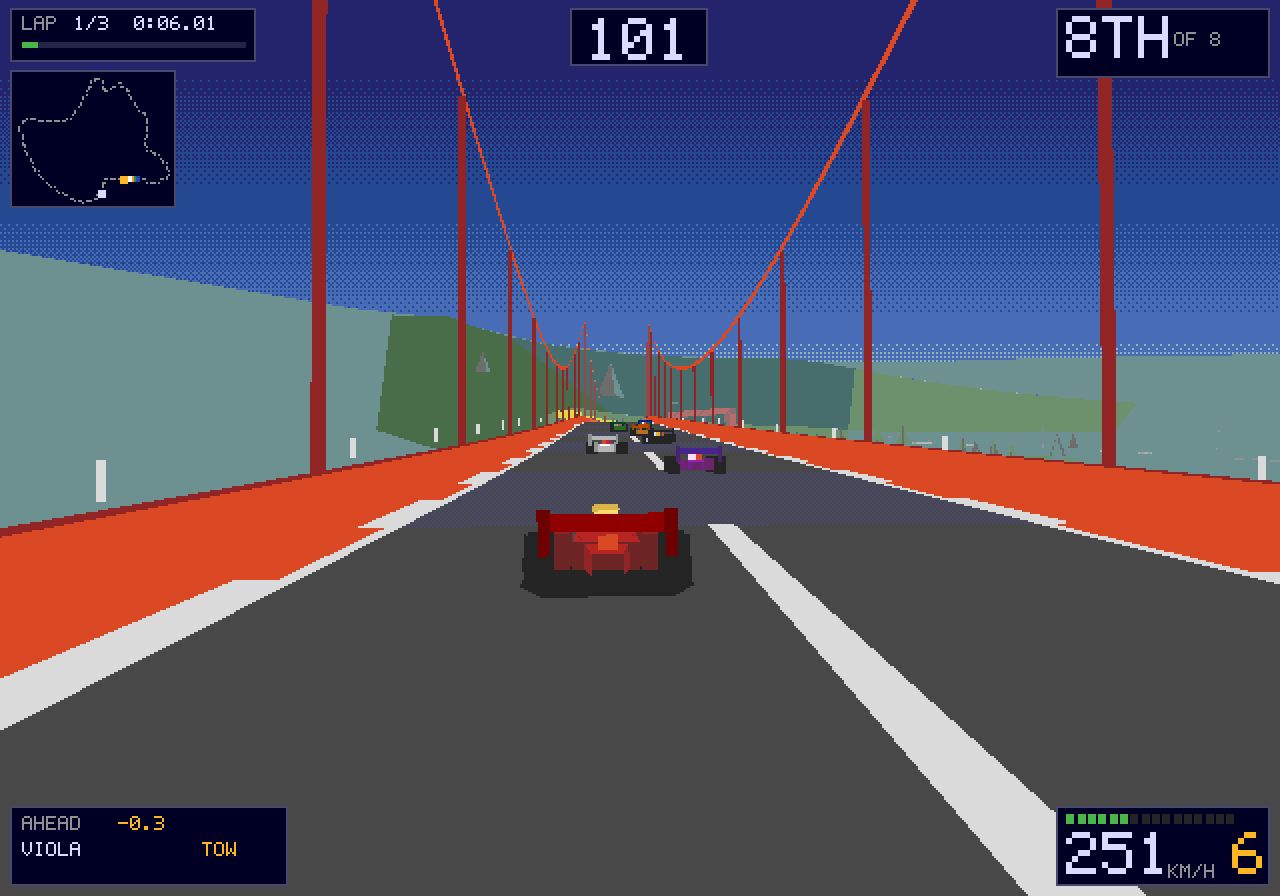
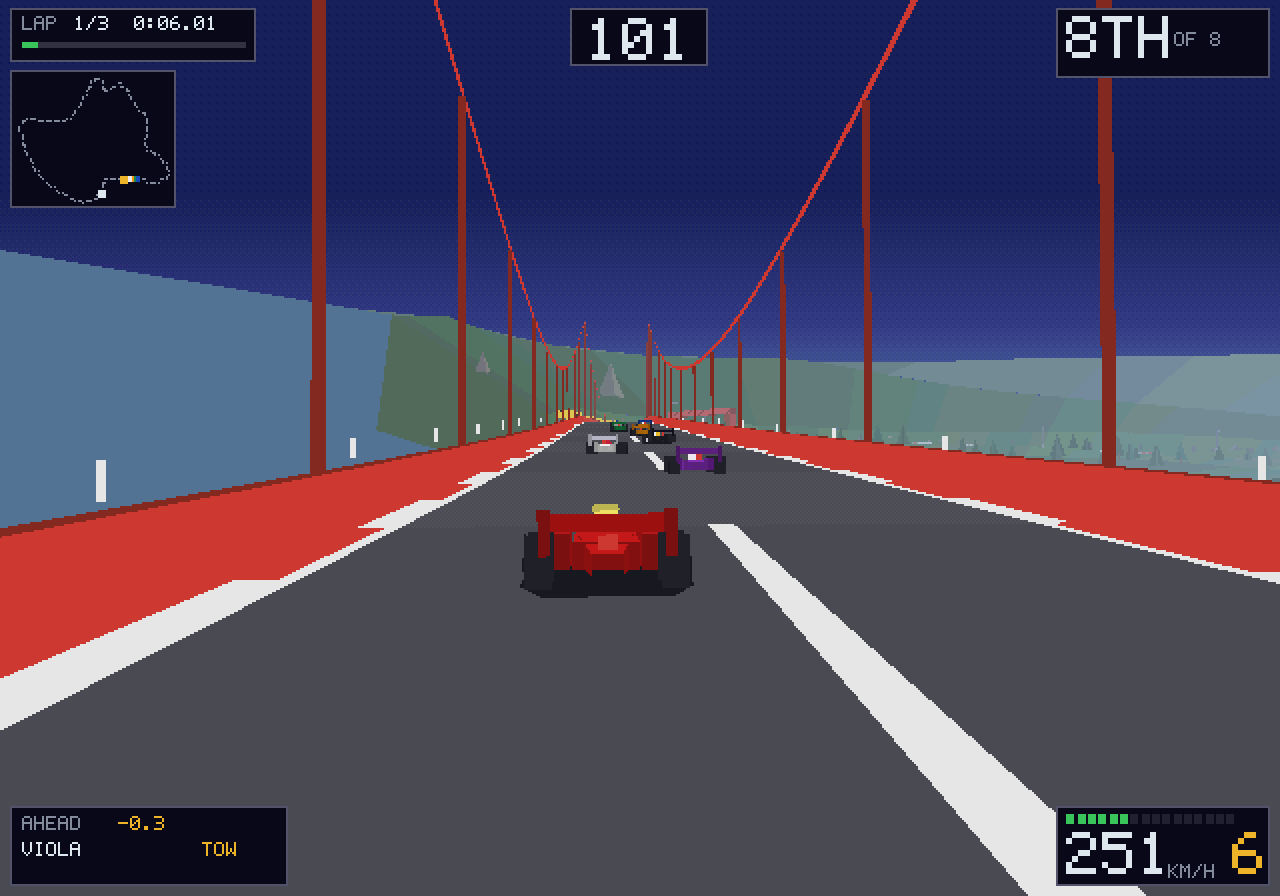
A sky that is a gradient, and a car that has stopped shivering
Three things off one screenshot.

The corner arrow in the panel was ragged, and it was the resolution change
that did it: the arrow was eight rows of one pixel each, and scaling a
position and a height separately rounds each on its own, so rows that
touched at four hundred and eighty came out a pixel apart or a pixel on top
of each other. Shapes built out of rows are given their edges now rather
than a corner and a size, so the next row starts exactly where the last one
stopped at any scale. And while it was open the arrow became the same
chevrons the boards beside the track use, graded the same way, so the panel
and the verge never say different things about the same corner.

The car shivered, and it was reading survey noise as road. Three separate
places, all the same mistake - a node is six metres and six metres of a
surveyed line is noise, so anything that responds to a corner must not be
built from one node of it.

  - Camber came straight off the node's own curvature, which on Suzuka
    moves by a hundredth of a radian from one node to the next. That swung
    the road, and the car standing on it, by a degree a node: nine wobbles
    a second at two hundred. Read over sixty-six metres now.
  - The car's roll was taken from the near node alone while the road under
    it was interpolated, so it held still for six metres and then stepped.
  - And the body lean, which was the loud one. At two hundred and sixty it
[…]

Changed region(s): [[0.0, 0.0938, 1.0, 0.5938], [0.7812, 0.4375, 0.9062, 0.5]]

diff --git a/src/render/raster.js b/src/render/raster.js
@@ -22,15 +22,50 @@
 import { FOCAL, NEAR } from '../constants.js';
 
 /**
- * Snaps a colour to the 512 a Mega Drive could make: three bits a channel.
+ * How many values each colour channel may take. Five bits: thirty-two.
+ *
+ * It was three for a long time - the five hundred and twelve a Mega Drive could
+ * make - and three is what gives flat shading its bite, because it stops two
+ * greens that were nearly the same from staying nearly the same. Thirty-two
+ * thousand seven hundred and sixty-eight is what a Saturn held, and it is what
+ * this runs at now: the same argument that took the resolution past that machine
+ * applies here, and eight steps of blue could not make a sky that was a gradient
+ * rather than a set of stripes.
+ *
+ * The look survives it for the same reason it survived the pixels. What reads as
+ * sixteen-bit is the flat shading, the hard edges and the fact that a tree is
+ * three polygons - none of which is about how many colours there are.
+ */
+export const LEVELS = 32;
+const STEP = 255 / (LEVELS - 1);
+
+/**
+ * Snaps a colour to the palette.
  *
  * Called on the way in rather than on the way out, so it costs nothing per
- * frame, and it is not decoration - it is what stops two greens that were
- * nearly the same from staying nearly the same. The palette does the flattening
- * that a flat-shaded renderer wants anyway.
+ * frame. The palette does the flattening that a flat-shaded renderer wants
+ * anyway.
  */
 export function md(r, g, b) {
-  const q = (v) => Math.round(Math.max(0, Math.min(255, v)) / 255 * 7) * 255 / 7 | 0;
+  const q = (v) => Math.round(Math.max(0, Math.min(255, v)) / STEP) * STEP | 0;
+  return (255 << 24) | (q(b) << 16) | (q(g) << 8) | q(r);
+}
+
+/**
+ * A colour snapped with a dither threshold instead of rounded.
+ *
+ * Rounding sends every value in a step to the same colour, which is what makes a
+ * gradient into stripes. Given a threshold from an ordered matrix this sends
+ * some of them up and some of them down in a fixed pattern, so a run of rows
+ * between two palette entries reads as the colour in between. It is the same
+ * trick the road surface uses for its two greys, applied to a channel at a time.
+ */
+export function dithered(r, g, b, t) {
+  const q = (v) => {
+    const x = Math.max(0, Math.min(255, v)) / STEP;
+    const low = Math.floor(x);
+    return Math.min(LEVELS - 1, x - low > t ? low + 1 : low) * STEP | 0;
+  };
   return (255 << 24) | (q(b) << 16) | (q(g) << 8) | q(r);
 }
 
@@ -163,30 +198,44 @@ export class Raster {
     const pattern = this.pattern || (this.pattern = new Uint32Array(4));
     let at = 0;
 
+    // The sky, as one continuous ramp through the stops rather than as flat
+    // bands with the joins dithered.
+    //
+    // It used to be the other way round, and the reason was the palette: with
+    // eight values a channel there was no gradient to draw. A sky from a deep
+    // blue to a pale one had four or five colours available to do it in, so it
+    // was drawn as four or five stripes and a great deal of care went into
+    // hiding the joins - which worked, and still left the sky looking like
+    // stripes with the joins hidden.
+    //
+    // With thirty-two a channel the ramp itself is nearly smooth, and the
+    // ordered dither is enough to take the rest of the steps out. So every row
+    // gets its own colour, interpolated between the two stops it lies between,
+    // and the four pixels of Bayer pattern decide which side of the palette each
+    // one lands on.
     for (let y = 0; y < h; y++, at += w) {
       const f = y / h;
       let i = 0;
       while (i < bands.length - 1 && f >= bands[i][0]) i++;
-      const colour = bands[i][1];
-      // How many rows until this band gives way to the next one.
-      const rows = (bands[i][0] - f) * h;
-      const next = i + 1 < bands.length ? bands[i + 1][1] : colour;
-      // The fade is a share of the band it belongs to rather than a fixed
-      // number of rows, so a thin band near the horizon is not entirely made of
-      // dither while a deep one at the top of the sky gets a long enough run to
-      // be a gradient.
-      const from = i > 0 ? bands[i - 1][0] : 0;
-      const fade = Math.max(3, Math.min(h * 0.13, (bands[i][0] - from) * h * 0.8));
+      const to = bands[i][1];
+      const from = i > 0 ? bands[i - 1][1] : to;
+      const top = i > 0 ? bands[i - 1][0] : 0;
+      const span = bands[i][0] - top;
+      const u = span > 0 ? Math.max(0, Math.min(1, (f - top) / span)) : 1;
 
-      if (next === colour || rows > fade || rows < 0) {
-        pix.fill(colour, at, at + w);
+      const r = (from & 255) + (((to & 255) - (from & 255)) * u);
+      const g = ((from >> 8) & 255) + ((((to >> 8) & 255) - ((from >> 8) & 255)) * u);
+      const b = ((from >> 16) & 255) + ((((to >> 16) & 255) - ((from >> 16) & 255)) * u);
+
+      const row = (y & 3) * 4;
+      for (let k = 0; k < 4; k++) pattern[k] = dithered(r, g, b, BAYER[row + k] / 16);
+      // Four columns of pattern is all the matrix has, so a row has four answers
+      // in it and the fill is a repeat rather than a per-pixel decision.
+      const p0 = pattern[0];
+      if (p0 === pattern[1] && p0 === pattern[2] && p0 === pattern[3]) {
+        pix.fill(p0, at, at + w);
         continue;
       }
-      // Four pixels of pattern, repeated across the row: the matrix only has
-      // four columns, so the row only has four different answers in it.
-      const t = (1 - rows / fade) * 16;
-      const row = (y & 3) * 4;
-      for (let k = 0; k < 4; k++) pattern[k] = BAYER[row + k] < t ? next : colour;
       for (let x = 0; x < w; x++) pix[at + x] = pattern[x & 3];
     }
   }

diff --git a/src/render/renderer.js b/src/render/renderer.js
@@ -887,6 +887,18 @@ export class Renderer {
     this._ui = {
       panel: (x, y, w, h, a, b) => rt.panel(q(x), q(y), q(w), q(h), a, b),
       rect: (x, y, w, h, c) => rt.rect(q(x), q(y), q(w), q(h), c),
+      /**
+       * A rectangle given by its edges rather than by a corner and a size.
+       *
+       * The difference matters wherever shapes are built out of rows. Scaling a
+       * position and a height separately rounds each of them on its own, so two
+       * rows that touched at four hundred and eighty are one pixel apart at six
+       * hundred and forty - or one pixel on top of each other. The corner arrow
+       * was eight such rows and came out with a comb down the side of it.
+       * Scaling both edges instead makes the next row start exactly where the
+       * last one stopped, whatever the scale is.
+       */
+      span: (x0, y0, x1, y1, c) => rt.rect(q(x0), q(y0), q(x1) - q(x0), q(y1) - q(y0), c),
       text: (str, x, y, c, n) => rt.text(str, q(x), q(y), c, k(n)),
       textMid: (str, x, y, c, n) => rt.textMid(str, q(x), q(y), c, k(n)),
       blit: (...args) => rt.blit(...args),
@@ -1017,19 +1029,34 @@ export class Renderer {
     if (Math.abs(worst) < 0.035) return;
 
     const rt = this.ui;
-    const hard = Math.abs(worst) > 0.085;
+    // The same three grades the boards beside the track use, worked out the same
+    // way, so the panel and the verge never say different things about the same
+    // corner. Six over the curvature is the radius.
+    const peak = Math.abs(worst);
+    const sharp = peak > 0.12 ? 3 : peak > 0.055 ? 2 : 1;
     const near = at < 24;
-    const colour = hard ? (near ? BAD : WARN) : HUD_DIM;
-    const right = worst > 0;
-    const x = HUD_BASE_W / 2 + (right ? 32 : -50);
-    rt.panel(x, 30, 18, 16, HUD_BACK, colour);
-    // A solid triangle, eight rows, pointing the way the corner goes.
-    for (let row = 0; row < 8; row++) {
-      const len = Math.max(1, Math.round(11 - Math.abs(row - 3.5) * 2.4));
-      rt.rect(right ? x + 3 : x + 15 - len, 34 + row, len, 1, colour);
+    const colour = sharp >= 3 ? (near ? BAD : WARN) : sharp === 2 ? WARN : HUD_DIM;
+    const bend = worst > 0 ? 1 : -1;
+    const wide = 10 + sharp * 8;
+    const x = HUD_BASE_W / 2 + (bend > 0 ? 26 : -26 - wide);
+    rt.panel(x, 28, wide, 20, HUD_BACK, colour);
+
+    // Chevrons, drawn as rows between two edges rather than as rows of a fixed
+    // height, so they tile exactly at any scale.
+    const mid = 38;
+    const tall = 6;
+    for (let c = 0; c < sharp; c++) {
+      const tip = bend > 0 ? x + wide - 5 - c * 8 : x + 5 + c * 8;
+      for (let row = 0; row <= tall * 2; row++) {
+        const y = mid - tall + row;
+        // Distance back from the tip grows to the middle of the chevron and
+        // shrinks again, which is what makes it an arrowhead and not a triangle.
+        const back = Math.abs(row - tall) * 0.62;
+        const from = tip - bend * (back + 3.4);
+        const to = tip - bend * back;
+        rt.span(Math.min(from, to), y, Math.max(from, to), y + 1, colour);
+      }
     }
-    // And a bar behind it for the corners that will actually have you.
-    if (hard) rt.rect(right ? x + 2 : x + 14, 34, 2, 8, colour);
   }
 
   /**

diff --git a/src/game/sim.js b/src/game/sim.js
@@ -192,8 +192,9 @@ function drive(state, car) {
   // rest of the race is a bug however it got there.
   const ctl = car.ctl || { throttle: true, brake: false, steer: 0 };
   if (car.speed < 0.4 && racing(state)) ctl.throttle = true;
-  const { i } = nodeAt(state.route, car.s);
+  const { i, t: along } = nodeAt(state.route, car.s);
   const node = state.route.nodes[i];
+  const after = state.route.nodes[(i + 1) % state.route.nodes.length];
   const surf = surfaceOf(car.x, node.half);
 
   // What is under the tyres. Off the tarmac you lose most of the grip and a
@@ -268,8 +269,25 @@ function drive(state, car) {
   // half of it went through the surface - a car is nearly two metres wide, and
   // two metres across eighteen degrees is thirty centimetres of bodywork under
   // the tarmac.
-  const lean = -Math.sign(kappa) * Math.min(0.045, (need / Math.max(1, grip)) * 0.045);
-  car.roll = lean - (node.dish + node.bank * 0.12);
+  // How far it leans on its springs, from the corner it is in rather than from
+  // the node it is on.
+  //
+  // This was the shiver. At two hundred and sixty the lean saturates at a
+  // curvature of three hundredths, and a surveyed line wanders by one hundredth
+  // from one node to the next - so on a fast curve the body was slamming from
+  // full lean one way to part lean the other and back, ten times a second, on
+  // nothing but survey noise. Read over sixty-six metres it is a corner again.
+  const felt = node.felt !== undefined ? node.felt / SEG : kappa;
+  const load = car.speed * car.speed * Math.abs(felt);
+  const lean = -Math.sign(felt) * Math.min(0.045, (load / Math.max(1, grip)) * 0.045);
+  // Interpolated between the two nodes, the way the road under it is. Taken from
+  // the near node alone the car's roll held still for six metres and then
+  // stepped, which at sixty metres a second is ten steps a second and reads as a
+  // shiver - the road was already smooth between nodes and the car standing on
+  // it was not.
+  const tilt = (a, b) => a + (b - a) * along;
+  car.roll = lean
+    - (tilt(node.dish, after.dish) + tilt(node.bank, after.bank) * 0.12);
 
 }
 

diff --git a/src/game/route.js b/src/game/route.js
@@ -711,6 +711,32 @@ export function buildRoute(key) {
     }
   }
 
+  /**
+   * The curvature a driver feels, as opposed to the curvature of one node.
+   *
+   * Camber is read off this rather than off `curve`, and it has to be. A node is
+   * six metres, and six metres of a surveyed line is noise: Suzuka's curvature
+   * moves by a hundredth of a radian from one node to the next, so a camber
+   * taken straight off it swung the road - and the car standing on it - by a
+   * degree per node. At two hundred that is nine wobbles a second, and it read
+   * exactly as it sounds, as a car with something loose in the suspension.
+   *
+   * Averaged over sixty-six metres, which is about the length of road a camber
+   * change is actually built over.
+   */
+  const felt = new Float64Array(count);
+  {
+    const span = 5;
+    for (let i = 0; i < count; i++) {
+      let sum = 0;
+      for (let k = -span; k <= span; k++) {
+        const j = ((i + k) % count + count) % count;
+        sum += turn(heading[j], heading[(j + 1) % count]);
+      }
+      felt[i] = sum / (span * 2 + 1);
+    }
+  }
+
   const nodes = [];
   for (let i = 0; i < count; i++) {
     const t = i / count;
@@ -766,7 +792,11 @@ export function buildRoute(key) {
       //
       // Clamped on the surveyed circuits because a survey is not relaxed, and
       // Monza's Rettifilo came out at a hundred and twenty-five degrees.
-      bank: real ? Math.max(-0.12, Math.min(0.12, curve * 3.2)) : curve * 3.2,
+      bank: real ? Math.max(-0.12, Math.min(0.12, felt[i] * 3.2)) : felt[i] * 3.2,
+      // The curvature over sixty-six metres of road rather than over six. The
+      // camber is built from it, and so is how far the car leans on its springs:
+      // both are responses to a corner, and a corner is longer than a node.
+      felt: felt[i],
       // Banking: a structure, and a real angle. Held apart from the camber
       // because the two behave nothing alike. Camber is drawn at a twelfth of
       // its nominal value and does not touch the car at all; eighteen degrees of

diff --git a/src/render/palette.js b/src/render/palette.js
@@ -1,12 +1,18 @@
 /**
  * Colour.
  *
- * Every value here goes through md(), which throws away everything below the
- * top three bits of each channel - so these are not the colours written down,
- * they are the nearest colours the machine being imitated could actually make.
- * Writing them out in full and letting the snap happen is deliberate: it means
- * the numbers read like colours rather than like a lookup table, and two greens
- * that snap to the same green are a signal that one of them was never needed.
+ * Every value here goes through md(), which keeps the top five bits of each
+ * channel - so these are not quite the colours written down, they are the
+ * nearest the palette can make. Writing them out in full and letting the snap
+ * happen is deliberate: it means the numbers read like colours rather than like
+ * a lookup table.
+ *
+ * Five bits, and it was three. Three is the Mega Drive's five hundred and twelve
+ * and it is what gives flat shading its bite, because two greens that were
+ * nearly the same stop being nearly the same. It went up because eight values of
+ * blue cannot make a sky: the gradient had to be drawn as four or five stripes
+ * with a great deal of care taken over hiding the joins, which worked and still
+ * left a sky that looked like stripes with the joins hidden.
  *
  * Two themes, because the two halves of the route are two different times of
  * day as much as two different places: the pass is cold, blue and high, and the

diff --git a/tools/simtest.js b/tools/simtest.js
@@ -528,10 +528,21 @@ for (const tier of ['easy', 'normal', 'hard']) {
   for (const key of ['pass', 'coast', 'grand', 'spa', 'monza', 'suzuka', 'zandvoort']) {
     const nodes = buildRoute(key).nodes;
     const surface = (n, x) => n.y - n.bank * x * 0.12;
+    // Read over sixty-six metres, which is what the camber itself is read over:
+    // six metres of a surveyed line is noise, and comparing a camber built from
+    // a stretch of road against the curvature of one node in it disagrees at
+    // every corner entry and exit for no reason anybody would care about.
+    const felt = (i) => {
+      let sum = 0;
+      for (let k = -5; k <= 5; k++) {
+        sum += nodes[((i + k) % nodes.length + nodes.length) % nodes.length].curve;
+      }
+      return sum / 11;
+    };
     // Only corners worth the name: on a straight the camber is noise either way.
-    const bendy = nodes.filter((n) => Math.abs(n.curve) > 0.02);
+    const bendy = nodes.filter((n) => Math.abs(felt(n.i)) > 0.02);
     const wrong = bendy.filter((n) => {
-      const out = n.curve > 0 ? -n.half : n.half;
+      const out = felt(n.i) > 0 ? -n.half : n.half;
       return surface(n, out) < surface(n, -out);
     });
     ok(`${key}: all ${bendy.length} of its real corners are cambered outside-high`,

diff --git a/src/constants.js b/src/constants.js
@@ -286,7 +286,7 @@ export function gearAt(speed) {
  * the sixteen and a half there are.
  *
  * The look survives it because what makes this read as sixteen-bit was never the
- * pixel count: it is the flat shading, the nine-bit palette and the fact that a
+ * pixel count: it is the flat shading, the hard edges and the fact that a
  * tree is three polygons. More pixels make those things clearer rather than less
  * true - and the HUD is laid out against a fixed four hundred and eighty wide
  * space now, so it no longer shrinks every time this number goes up.

diff --git a/src/game/state.js b/src/game/state.js
@@ -74,6 +74,8 @@ export function makeCar(kind, slot, s, x, extra = {}) {
     speed: 0,
     /** How far the car is pointed away from the track, in radians. */
     yaw: 0,
+    /** How far it is leaning, from the corner and from the road under it. */
+    roll: 0,
     /** Where the wheel is, from -1 to 1. The keys move this, not the car. */
     wheel: 0,
     slide: 0,        // grip it is asking for and not getting

diff --git a/README.md b/README.md
@@ -281,7 +281,7 @@ over two hundred and eighty-seven thousand pixels is under four milliseconds,
 which leaves twelve of the sixteen a frame gets.
 
 What makes this read as sixteen-bit was never the pixel count. It is the flat
-shading, the nine-bit palette, and the fact that a tree is three polygons — and
+shading, the palette, and the fact that a tree is three polygons — and
 more pixels make those clearer rather than less true. The HUD is laid out against
 a fixed 480-wide space and scaled onto whatever the screen is, so it stops
 shrinking every time that number goes up, which is what it had been quietly doing.
@@ -289,9 +289,13 @@ shrinking every time that number goes up, which is what it had been quietly doin
 Doing it in software buys the one thing a modern pipeline will not give you,
 which is the actual look:
 
-- **Every colour is one of the 512 that machine could make** — three bits a
-  channel, snapped on the way in. Two greens that were nearly the same stop being
-  nearly the same, which is what flat shading wants anyway.
+- **Every colour is one of 32,768** — five bits a channel, snapped on the way in.
+  It was 512 for a long time, the three bits a Mega Drive had, and three bits is
+  what gives flat shading its bite: two greens that were nearly the same stop
+  being nearly the same. But eight steps of blue cannot make a sky that is a
+  gradient rather than a set of stripes, so it runs at what a Saturn held
+  instead. The bite comes from the flat shading and the hard edges, and neither
+  of those is about how many colours there are.
 - **The track is chequered, not banded.** There is no grey between the two greys
   that palette has, so the lighter stripe is a one-pixel chequerboard of both,
   exactly the way the hardware faked a colour it did not have.
